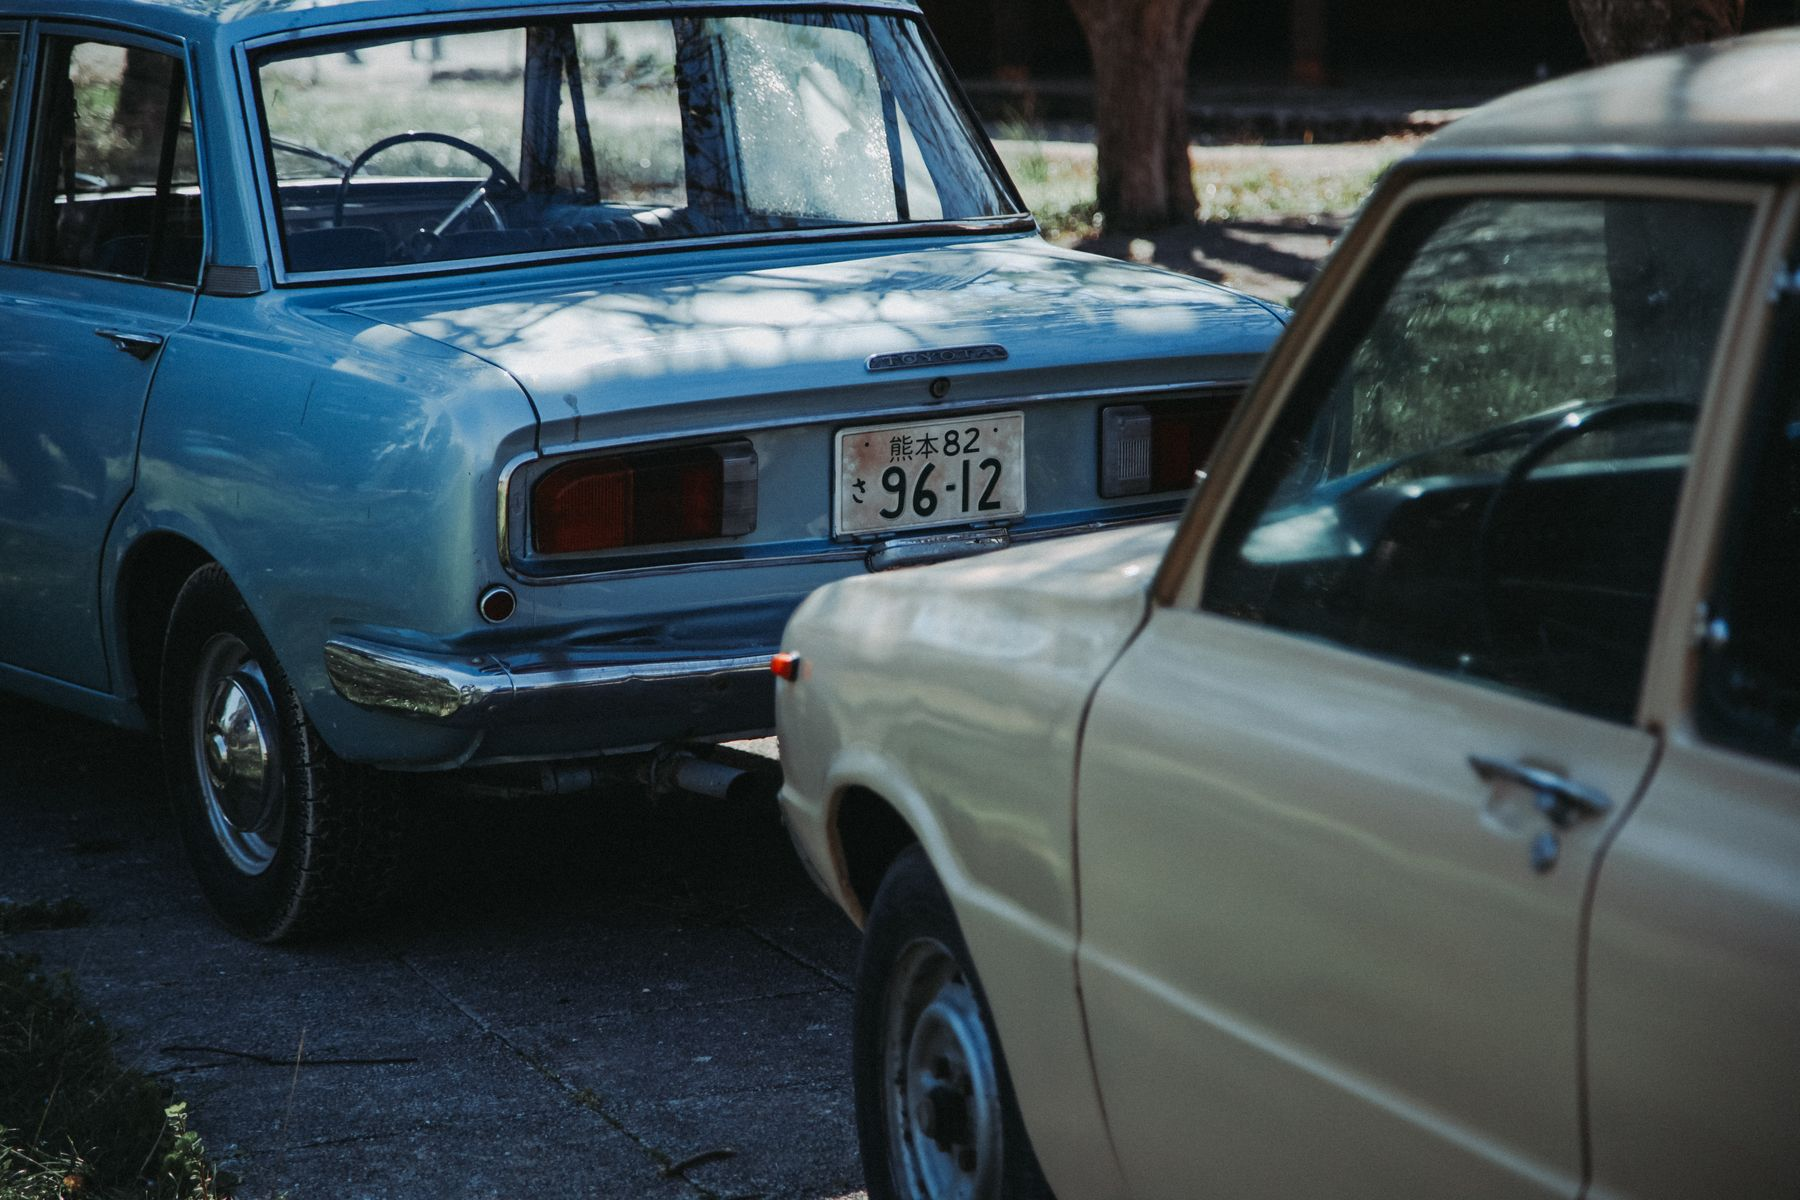
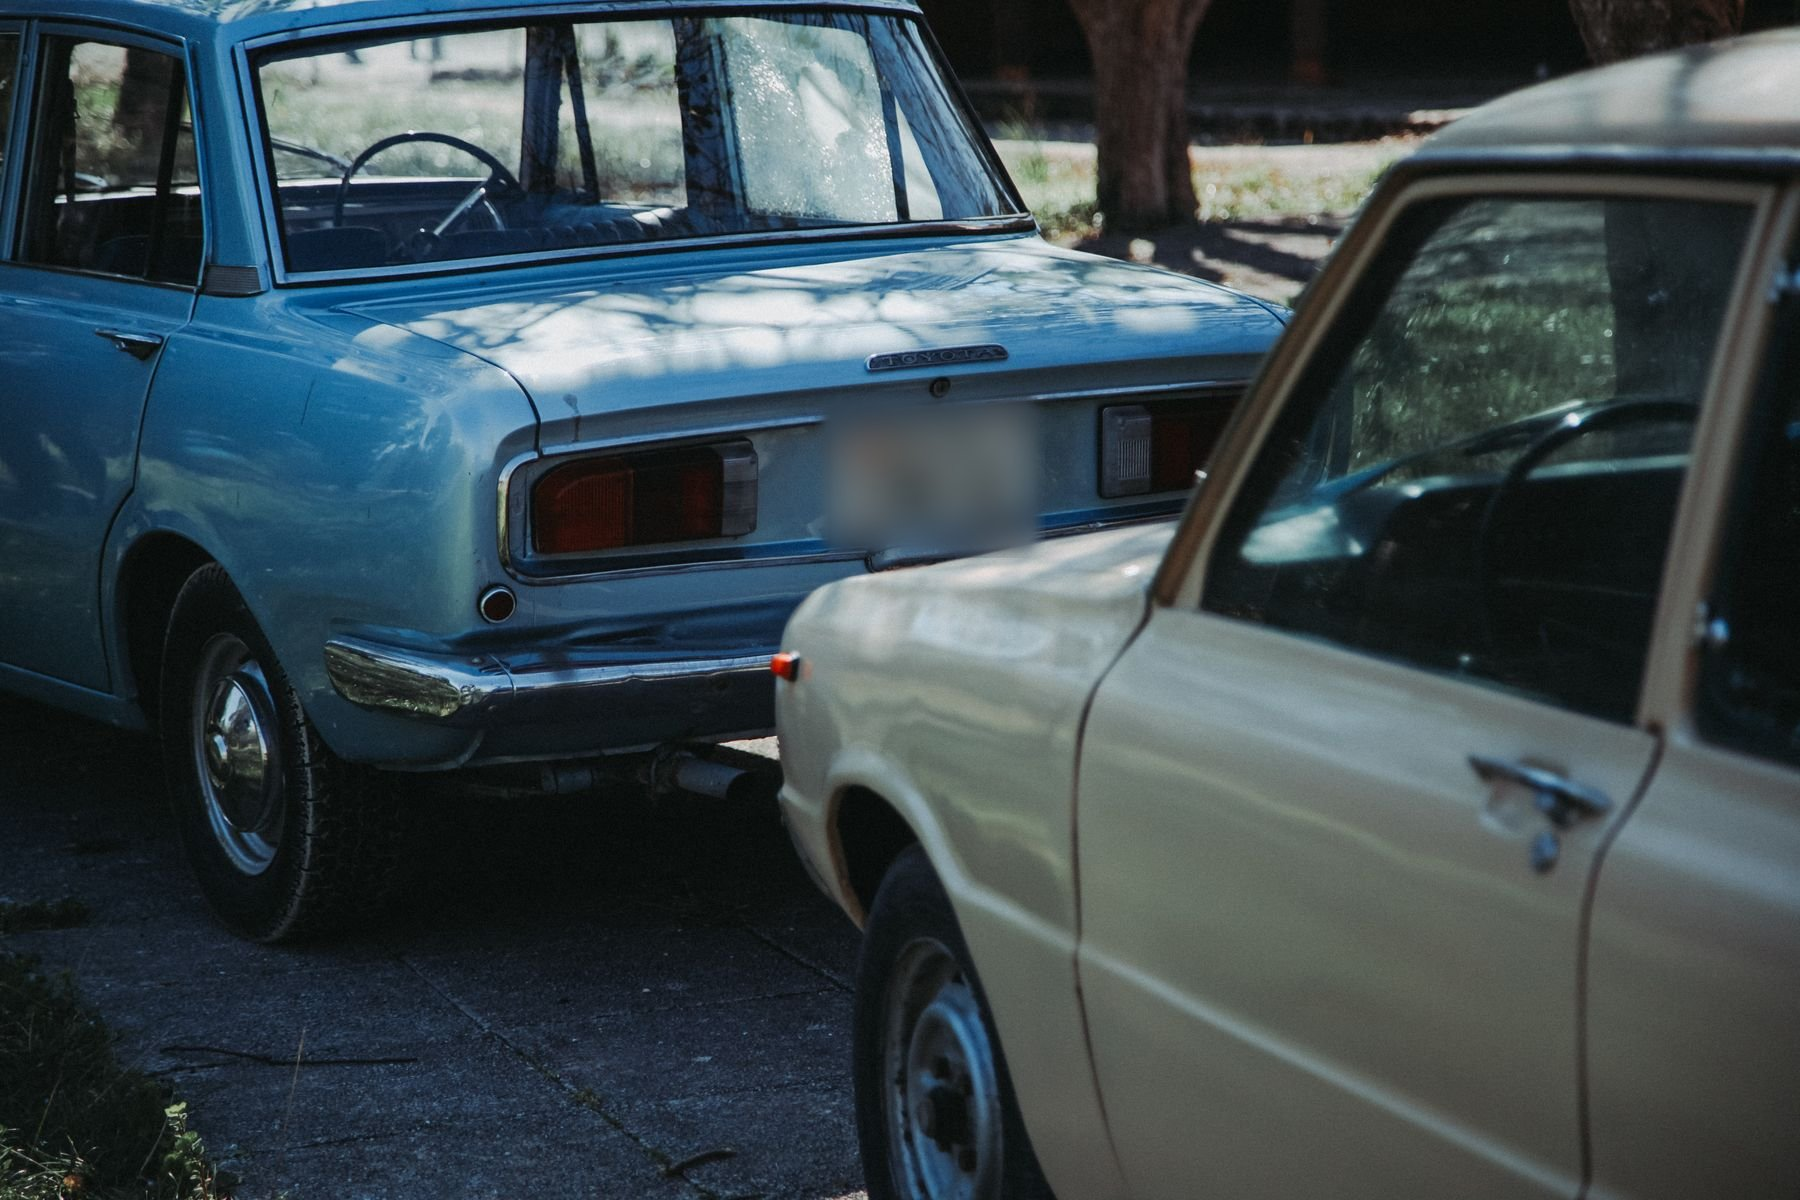
クラシックカーの写真のナンバープレートをぼかす

Changed region(s): [[0.4356, 0.3083, 0.5911, 0.4625]]

diff --git a/classiccar.html b/classiccar.html
@@ -135,7 +135,7 @@ input:focus-visible,select:focus-visible,textarea:focus-visible,button:focus-vis
         <p class="ph-lead">製造から25年以上たったお車にも、<br>車両保険という安心を。</p>
       </div>
       <figure>
-        <img src="assets/classiccar.jpg" width="1800" height="1200" alt="日本のナンバーを付けた青いクラシックカーと白いクラシックカー">
+        <img src="assets/classiccar.jpg" width="1800" height="1200" alt="並んで停まる青いクラシックカーと白いクラシックカー">
         <figcaption>写真：Nikita Belokhonov／Pexels</figcaption>
       </figure>
     </div>
